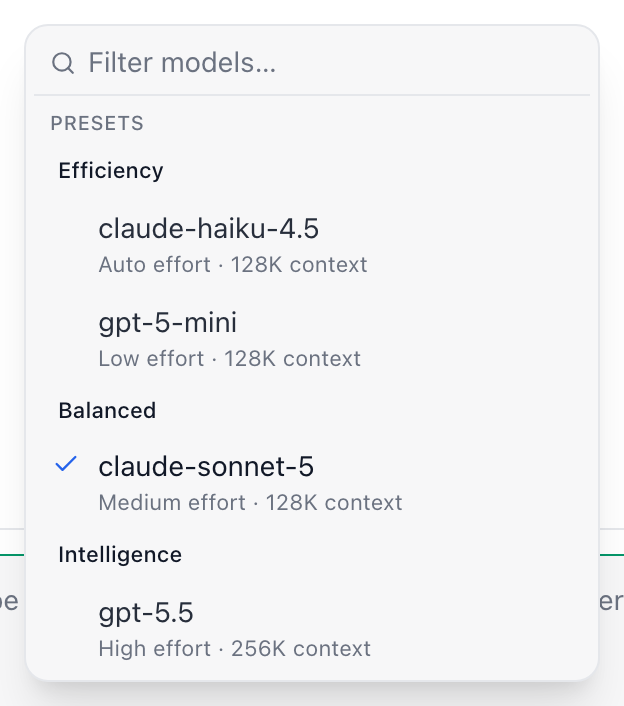
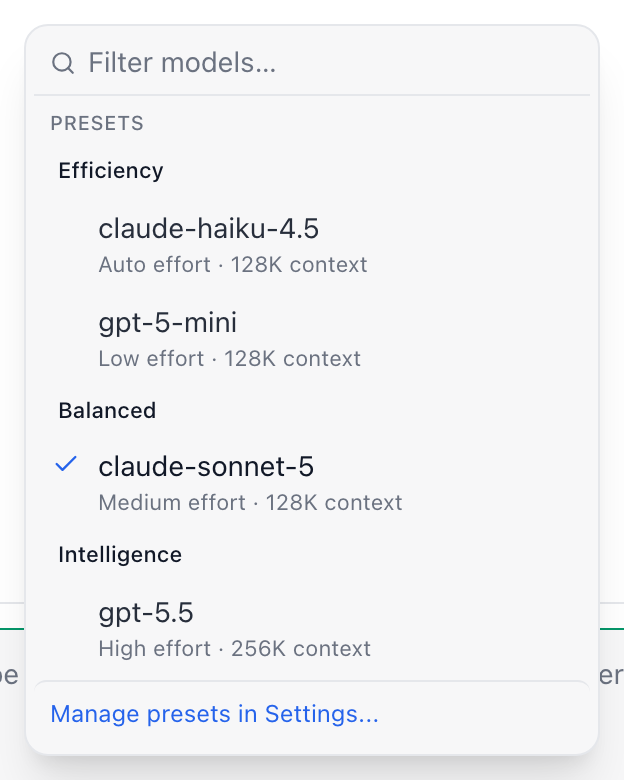
Keep unconfigured model presets visible in prompt menus
Show all three preset categories as Not configured when profiles are absent, keep the group at the top of the menu, and provide a read-only Settings setup shortcut. Cover empty chat, topic and SDK cases without automatically creating or saving configurations.

Copilot-Session: 29b2119c-36c1-4a65-9f76-f15dd6e44be2

diff --git a/frontend/src/components/ComposerSelectMenu.tsx b/frontend/src/components/ComposerSelectMenu.tsx
@@ -14,6 +14,7 @@ export interface MenuOption {
 export interface MenuGroup {
   label?: string;
   parentLabel?: string;
+  emptyHint?: string;
   options: MenuOption[];
 }
 
@@ -36,6 +37,8 @@ export function ComposerSelectMenu({
   fullWidth = false,
   portal = false,
   onCustomValue,
+  footerAction,
+  scrollToSelected = true,
   open: controlledOpen,
   onOpenChange,
   onOpen,
@@ -59,6 +62,8 @@ export function ComposerSelectMenu({
   portal?: boolean;
   /** Opt-in manual ids for catalogues that omit a deployment/retired model. */
   onCustomValue?: (value: string) => void;
+  footerAction?: { label: string; onSelect: () => void };
+  scrollToSelected?: boolean;
   /** Optional controlled open state, so a slash command can pop the menu. */
   open?: boolean;
   onOpenChange?: (open: boolean) => void;
@@ -71,6 +76,7 @@ export function ComposerSelectMenu({
   const rootRef = useRef<HTMLDivElement>(null);
   const triggerRef = useRef<HTMLButtonElement>(null);
   const menuRef = useRef<HTMLDivElement>(null);
+  const optionsRef = useRef<HTMLDivElement>(null);
   const selectedRef = useRef<HTMLButtonElement>(null);
   const searchRef = useRef<HTMLInputElement>(null);
   const [menuPosition, setMenuPosition] = useState<CSSProperties | null>(null);
@@ -130,12 +136,13 @@ export function ComposerSelectMenu({
     if (searchRef.current) searchRef.current.focus();
     else if (portal) (selectedRef.current ?? menuRef.current?.querySelector<HTMLButtonElement>('[role="option"]'))?.focus();
     // Bring the active row into view when the menu opens.
-    selectedRef.current?.scrollIntoView({ block: "nearest" });
+    if (scrollToSelected) selectedRef.current?.scrollIntoView({ block: "nearest" });
+    else if (optionsRef.current) optionsRef.current.scrollTop = 0;
     return () => {
       document.removeEventListener("pointerdown", onDocPointerDown);
       document.removeEventListener("keydown", onKeyDown);
     };
-  }, [open, onOpenChange, positioned, portal]);
+  }, [open, onOpenChange, positioned, portal, scrollToSelected]);
 
   // A matching group label keeps its whole group, so typing a vendor name
   // ("microsoft") lists every model it publishes.
@@ -151,9 +158,10 @@ export function ComposerSelectMenu({
                   o.label.toLowerCase().includes(q) || o.value.toLowerCase().includes(q) || o.searchText?.toLowerCase().includes(q),
               ),
         }))
-        .filter((g) => g.options.length > 0)
+        .filter((g) => g.options.length > 0 || (g.emptyHint && (g.label?.toLowerCase().includes(q) || g.parentLabel?.toLowerCase().includes(q))))
     : groups;
   const hasOptions = visibleGroups.some((g) => g.options.length > 0);
+  const hasHints = visibleGroups.some((g) => Boolean(g.emptyHint));
   const customValue = query.trim();
   const canUseCustomValue = Boolean(
     onCustomValue && customValue && !groups.some((g) => g.options.some((o) => o.value === customValue)),
@@ -218,23 +226,26 @@ export function ComposerSelectMenu({
               />
             </div>
           )}
-          <div className="max-h-72 min-h-0 overflow-y-auto">
-            {!hasOptions && !canUseCustomValue && (
+          <div ref={optionsRef} className="max-h-72 min-h-0 overflow-y-auto">
+            {!hasOptions && !hasHints && !canUseCustomValue && (
               <div className="px-2 py-1.5 text-xs text-muted">
                 {q ? "No match" : (emptyHint ?? "No options")}
               </div>
             )}
             {visibleGroups.map((group, gi) => (
               <div key={`${group.parentLabel ?? ""}:${group.label ?? gi}`} role={group.label ? "group" : undefined} aria-label={group.label ? `${group.parentLabel ? `${group.parentLabel} - ` : ""}${group.label}` : undefined}>
-                {group.parentLabel && group.options.length > 0 && visibleGroups[gi - 1]?.parentLabel !== group.parentLabel && (
+                {group.parentLabel && (group.options.length > 0 || group.emptyHint) && visibleGroups[gi - 1]?.parentLabel !== group.parentLabel && (
                   <div className="px-2 pb-1 pt-1.5 text-[10px] font-medium uppercase tracking-wide text-muted" data-menu-parent={group.parentLabel}>
                     {group.parentLabel}
                   </div>
                 )}
-                {group.label && group.options.length > 0 && (
+                {group.label && (group.options.length > 0 || group.emptyHint) && (
                   <div className={group.parentLabel ? "px-3 pb-1 pt-1 text-[11px] font-medium text-text" : "px-2 pb-1 pt-1.5 text-[10px] font-medium uppercase tracking-wide text-muted"} data-menu-category={group.parentLabel ? group.label : undefined}>
                     {group.label}
                   </div>
+                )}
+                {group.emptyHint && group.options.length === 0 && (
+                  <div className="px-3 pb-2 text-[11px] text-muted">{group.emptyHint}</div>
                 )}
                 {group.options.map((opt) => {
                   const selected = opt.value === value;
@@ -287,6 +298,14 @@ export function ComposerSelectMenu({
               </button>
             )}
           </div>
+          {footerAction && (
+            <button type="button" onClick={() => {
+              setOpen(false);
+              footerAction.onSelect();
+            }} className="mt-1 w-full shrink-0 rounded-md border-t border-border px-2 py-2 text-left text-xs text-accent hover:bg-border/50">
+              {footerAction.label}
+            </button>
+          )}
         </div>
   ) : null;
 

diff --git a/scripts/test_model_fallbacks.js b/scripts/test_model_fallbacks.js
@@ -350,9 +350,13 @@ async function main() {
     assert.equal(state.llm_model, "model-c");
     await composerModel.click();
     assert.equal(await composerMenu.locator('[data-menu-parent="Presets"]').count(), 1);
+    const configuredMenuBox = await composerMenu.boundingBox();
+    const configuredHeaderBox = await composerMenu.locator('[data-menu-parent="Presets"]').boundingBox();
+    assert.ok(configuredMenuBox && configuredHeaderBox && configuredHeaderBox.y >= configuredMenuBox.y && configuredHeaderBox.y < configuredMenuBox.y + configuredMenuBox.height, "Configured Presets start at the top, not scrolled away to the catalogue model");
     assert.equal(await composerMenu.locator('[data-menu-category="Efficiency"]').count(), 1);
     assert.equal(await composerMenu.locator('[data-menu-category="Balanced"]').count(), 1);
-    assert.equal(await composerMenu.locator('[data-menu-category="Intelligence"]').count(), 0, "Empty categories are omitted");
+    assert.equal(await composerMenu.locator('[data-menu-category="Intelligence"]').count(), 1, "Empty categories stay discoverable");
+    assert.match(await composerMenu.getByRole("group", { name: "Presets - Intelligence", exact: true }).innerText(), /Not configured/);
     await composerMenu.getByRole("textbox", { name: "Filter models…" }).fill("Balanced");
     const beforeChatPreset = writes.length;
     await composerMenu.getByRole("textbox", { name: "Filter models…" }).press("Enter");
@@ -380,7 +384,7 @@ async function main() {
     const agentMenu = page.getByRole("listbox", { name: "Agent model", exact: true });
     assert.equal(await agentMenu.locator('[data-menu-parent="Presets"]').count(), 1);
     assert.equal(await agentMenu.locator('[data-menu-category="Efficiency"]').count(), 1);
-    assert.equal(await agentMenu.locator('[data-menu-category="Balanced"]').count(), 0, "Chat presets do not leak into SDK menus");
+    assert.equal(await agentMenu.getByRole("group", { name: "Presets - Balanced", exact: true }).getByRole("option").count(), 0, "Chat presets do not leak into SDK menus");
     await agentMenu.getByRole("textbox", { name: "Filter models…" }).fill("Presets");
     assert.equal(await agentMenu.getByRole("option").count(), 1, "The parent group can be searched");
     const beforeAgentPreset = writes.length;
@@ -392,7 +396,33 @@ async function main() {
     }, "An SDK preset applies model, effort and context tier atomically");
     assert.equal(state.llm_model, "model-a", "An agent preset does not change chat configuration");
     assert.deepEqual(state.model_fallbacks, saved, "Selecting presets never changes the preset definitions");
-    console.log("Model alternatives UI: compact summary, category-by-runtime modal, Apply/Cancel drafts, review navigation, nested dropdowns/Escape, focus traps, health, mobile layout and persistence passed.");
+    state.model_fallbacks = {};
+    const beforeEmptySetup = writes.length;
+    for (const [route, label] of [
+      [`/chats/regex-for-semver-tags`, "Model"],
+      [`/topics/onboarding-checklist`, "Model"],
+      [`/agents/${agents[0].public_id}`, "Agent model"],
+    ]) {
+      await page.goto(`${BASE}${route}`, { waitUntil: "networkidle" });
+      await page.reload({ waitUntil: "networkidle" });
+      await page.getByRole("button", { name: label, exact: true }).click();
+      const menu = page.getByRole("listbox", { name: label, exact: true });
+      const menuBox = await menu.boundingBox();
+      const headerBox = await menu.locator('[data-menu-parent="Presets"]').boundingBox();
+      assert.ok(menuBox && headerBox && headerBox.y >= menuBox.y && headerBox.y < menuBox.y + menuBox.height, "Presets is visible without scrolling even with no saved profiles");
+      for (const category of ["Efficiency", "Balanced", "Intelligence"]) {
+        const group = menu.getByRole("group", { name: `Presets - ${category}`, exact: true });
+        assert.match(await group.innerText(), /Not configured/);
+        assert.equal(await group.getByRole("option").count(), 0);
+      }
+      await menu.getByRole("button", { name: "Manage presets in Settings...", exact: true }).click();
+      await page.getByRole("heading", { name: "Model alternatives", exact: true }).waitFor();
+      assert.match(await chatScope.innerText(), /Not configured/);
+      assert.match(await agentScope.innerText(), /Not configured/);
+      assert.equal(writes.length, beforeEmptySetup, "Opening preset setup never creates or saves a configuration automatically");
+      await page.getByRole("button", { name: "Close", exact: true }).click();
+    }
+    console.log("Model alternatives UI: preset selection and empty-category discovery in chat/topics/agents, Settings setup link, modal drafts, keyboard, health and persistence passed.");
   } finally {
     await browser.close();
   }

diff --git a/frontend/src/components/ComposerModelControls.tsx b/frontend/src/components/ComposerModelControls.tsx
@@ -4,6 +4,7 @@ import { modelsStore, useCurrentModel, useModelsVersion } from "../lib/modelsSto
 import { settingsStore, useSettings } from "../lib/settingsStore";
 import type { AgentModelInfo, LLMModel } from "../lib/types";
 import { matchingModelPreset, modelPresetMenuEntries, MODEL_PRESET_CATEGORIES, type ModelPresetMenuEntry } from "../lib/modelPresetMenus";
+import { openModelPresetSettings } from "../lib/modelPresetSettingsOpen";
 import { ComposerSelectMenu, type MenuGroup, type MenuOption } from "./ComposerSelectMenu";
 
 const EFFORT_LABELS: Record<string, string> = {
@@ -46,6 +47,7 @@ function presetModelGroups(entries: ModelPresetMenuEntry[], models: { id: string
   return MODEL_PRESET_CATEGORIES.map((category) => ({
     parentLabel: "Presets",
     label: category.label,
+    emptyHint: "Not configured",
     options: entries.filter((entry) => entry.category === category.id).map(({ value, preset }) => {
       const model = models.find((model) => model.id === preset.model);
       const context = agents
@@ -58,7 +60,7 @@ function presetModelGroups(entries: ModelPresetMenuEntry[], models: { id: string
         searchText: preset.model,
       };
     }),
-  })).filter((group) => group.options.length > 0);
+  }));
 }
 
 // Ascending list of the (up to three) context-budget values offered for a model
@@ -209,6 +211,8 @@ function LlmModelControls() {
         emptyHint="No model catalog — set one in Settings."
         disabled={saving}
         filterPlaceholder="Filter models…"
+        scrollToSelected={false}
+        footerAction={{ label: "Manage presets in Settings...", onSelect: openModelPresetSettings }}
         onOpen={() => void modelsStore.ensureLoaded()}
         onSelect={onModelChange}
       />
@@ -344,6 +348,8 @@ function AgentModelControls() {
         menuMinWidthClass="min-w-[18rem]"
         disabled={saving}
         filterPlaceholder="Filter models…"
+        scrollToSelected={false}
+        footerAction={{ label: "Manage presets in Settings...", onSelect: openModelPresetSettings }}
         onSelect={onModelChange}
       />
       {supportedEfforts.length > 0 && (

diff --git a/scripts/capture_screenshots.js b/scripts/capture_screenshots.js
@@ -914,6 +914,26 @@ const scenes = {
     },
   },
 
+  "model-presets-empty": {
+    viewport: { width: 1440, height: 1000 },
+    async go(page) {
+      await scenes["model-alternatives"].go(page);
+      await page.getByRole("button", { name: "Close", exact: true }).click();
+      await page.route("**/api/settings", async (route) => {
+        if (route.request().method() !== "GET") return route.fallback();
+        const response = await route.fetch();
+        const settings = await response.json();
+        await route.fulfill({ response, json: { ...settings, model_fallbacks: {}, llm_model: "claude-haiku-4.5" } });
+      });
+      await page.goto(`${BASE}/chats/regex-for-semver-tags`, { waitUntil: "networkidle" });
+      await page.getByRole("button", { name: "Model", exact: true }).click();
+      await page.getByRole("listbox", { name: "Model", exact: true }).waitFor();
+      await page.mouse.move(0, 0);
+      await sleep(200);
+      return clipOf(page, '[role="listbox"][aria-label="Model"]', 12);
+    },
+  },
+
   // Settings → Model: the OpenAI-compatible endpoint, switched on. The Guest
   // demo has no provider to relay to, so the switch, key and catalogue are
   // fixtures — never a real key.

diff --git a/frontend/src/App.tsx b/frontend/src/App.tsx
@@ -13,6 +13,7 @@ import { IQMain, IQSidebar } from "./components/IQMain";
 import type { IQSeed } from "./components/IQMain";
 import { McpAuthBanner } from "./components/McpAuthBanner";
 import { SettingsPanel } from "./components/SettingsPanel";
+import { subscribeModelPresetSettingsOpen } from "./lib/modelPresetSettingsOpen";
 import { HomePage } from "./components/HomePage";
 import { ArchivePanel } from "./components/ArchivePanel";
 import {
@@ -104,6 +105,7 @@ export default function App() {
     setSettingsCategory(category);
     setGlobalSettingsOpen(true);
   }, []);
+  useEffect(() => subscribeModelPresetSettingsOpen(() => openSettingsAt("model")), [openSettingsAt]);
   // Agent setup and recovery land on the Agents category rather than making
   // the user hunt for the relevant toggle or runtime controls.
   const openAgentSettings = useCallback(() => openSettingsAt("agents"), [openSettingsAt]);

diff --git a/frontend/src/lib/modelPresetSettingsOpen.ts b/frontend/src/lib/modelPresetSettingsOpen.ts
@@ -1,0 +1,10 @@
+const MODEL_PRESET_SETTINGS_EVENT = "precursor:model-preset-settings-open";
+
+export function openModelPresetSettings(): void {
+  window.dispatchEvent(new Event(MODEL_PRESET_SETTINGS_EVENT));
+}
+
+export function subscribeModelPresetSettingsOpen(handler: () => void): () => void {
+  window.addEventListener(MODEL_PRESET_SETTINGS_EVENT, handler);
+  return () => window.removeEventListener(MODEL_PRESET_SETTINGS_EVENT, handler);
+}

diff --git a/website/guide/configuration.md b/website/guide/configuration.md
@@ -82,8 +82,14 @@ Alternatives never switch provider or credentials.
 
 The prompt's model dropdown includes a **Presets** group, with **Efficiency**,
 **Balanced** and **Intelligence** subcategories for the presets you configured.
-Empty categories are omitted. Chat/topic composers use the selected provider's
-presets; agent composers use the independent Copilot SDK presets.
+The group is visible even on a fresh install: empty categories say **Not
+configured**, rather than disappearing. Chat/topic composers use the selected
+provider's presets; agent composers use the independent Copilot SDK presets.
+
+If the categories are empty, choose **Manage presets in Settings...** in the
+dropdown to open **Settings -> Model**, then **Manage presets**. Add the profiles,
+**Apply to settings**, and **Save** in Settings. Applying only the modal draft
+does not persist it. The setup shortcut never creates or saves presets itself.
 
 Select a preset to apply its **model, effort and context together** in one
 settings update. Chat presets set the input-token budget; SDK presets set the
@@ -97,6 +103,8 @@ their category can still recover using its listed alternatives. Selecting a
 profile never modifies its definition or crosses providers/runtimes.
 
 <Screenshot src="/screenshots/model-presets.png" alt="Prompt model dropdown with a Presets group and Efficiency, Balanced and Intelligence subcategories" caption="Choose a configured model, effort and context as one profile directly from the prompt." />
+
+<Screenshot src="/screenshots/model-presets-empty.png" alt="Preset categories visible as Not configured, with a setup shortcut" caption="Presets remain discoverable before configuration. The shortcut opens Settings; nothing is populated automatically." />
 
 #### Editing preset definitions
 

diff --git a/CHANGELOG.md b/CHANGELOG.md
@@ -30,6 +30,8 @@ are the per-version history; releasing does not rewrite this file.
   Prompt model dropdowns also expose **Presets** with Efficiency, Balanced and
   Intelligence subcategories; choosing a profile applies its model, effort and
   context together within the correct chat/provider or SDK scope.
+  Empty categories remain visible as **Not configured**, with a **Manage presets
+  in Settings...** shortcut instead of hiding the Presets group on fresh installs.
   Category and configuration badges check provider/SDK catalogues, with per-preset
   warnings for unlisted models, incomplete/duplicate profiles and advertised
   effort/window mismatches. Missing credentials or unavailable catalogues remain
